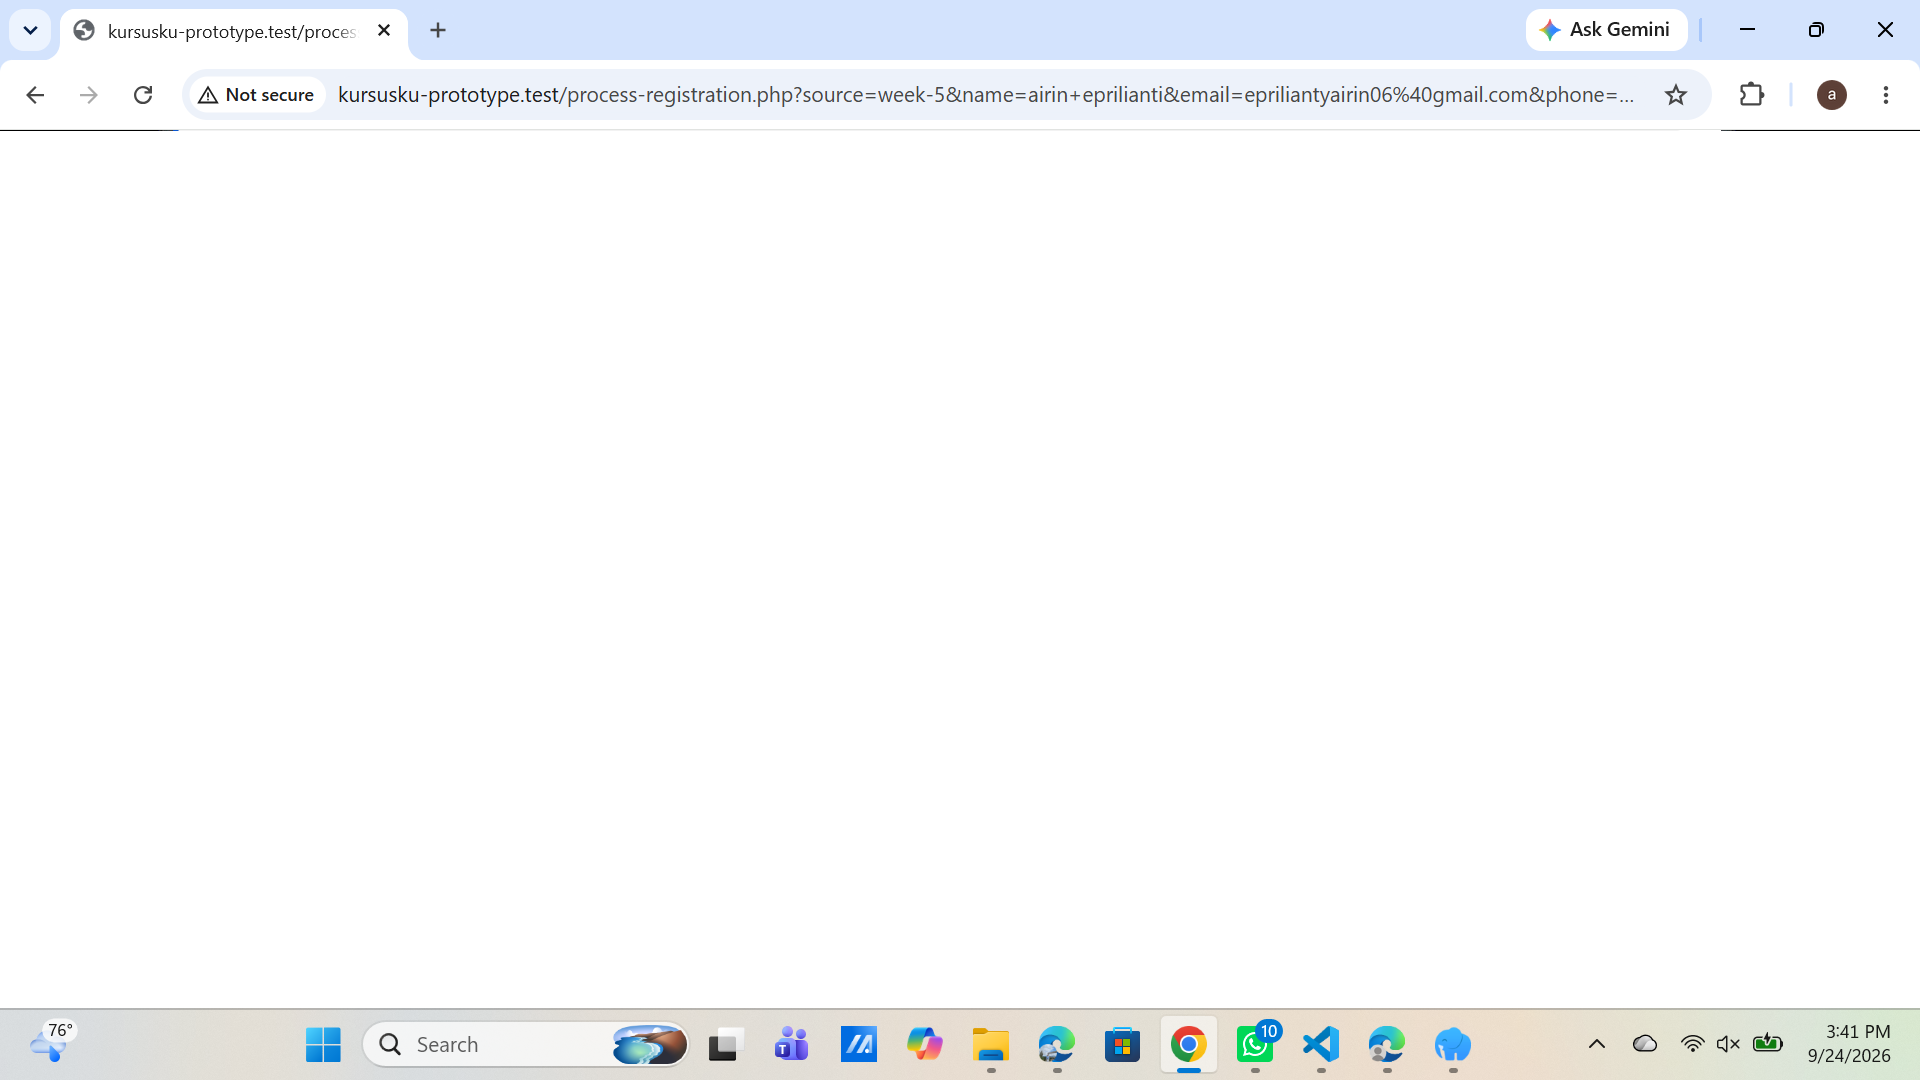
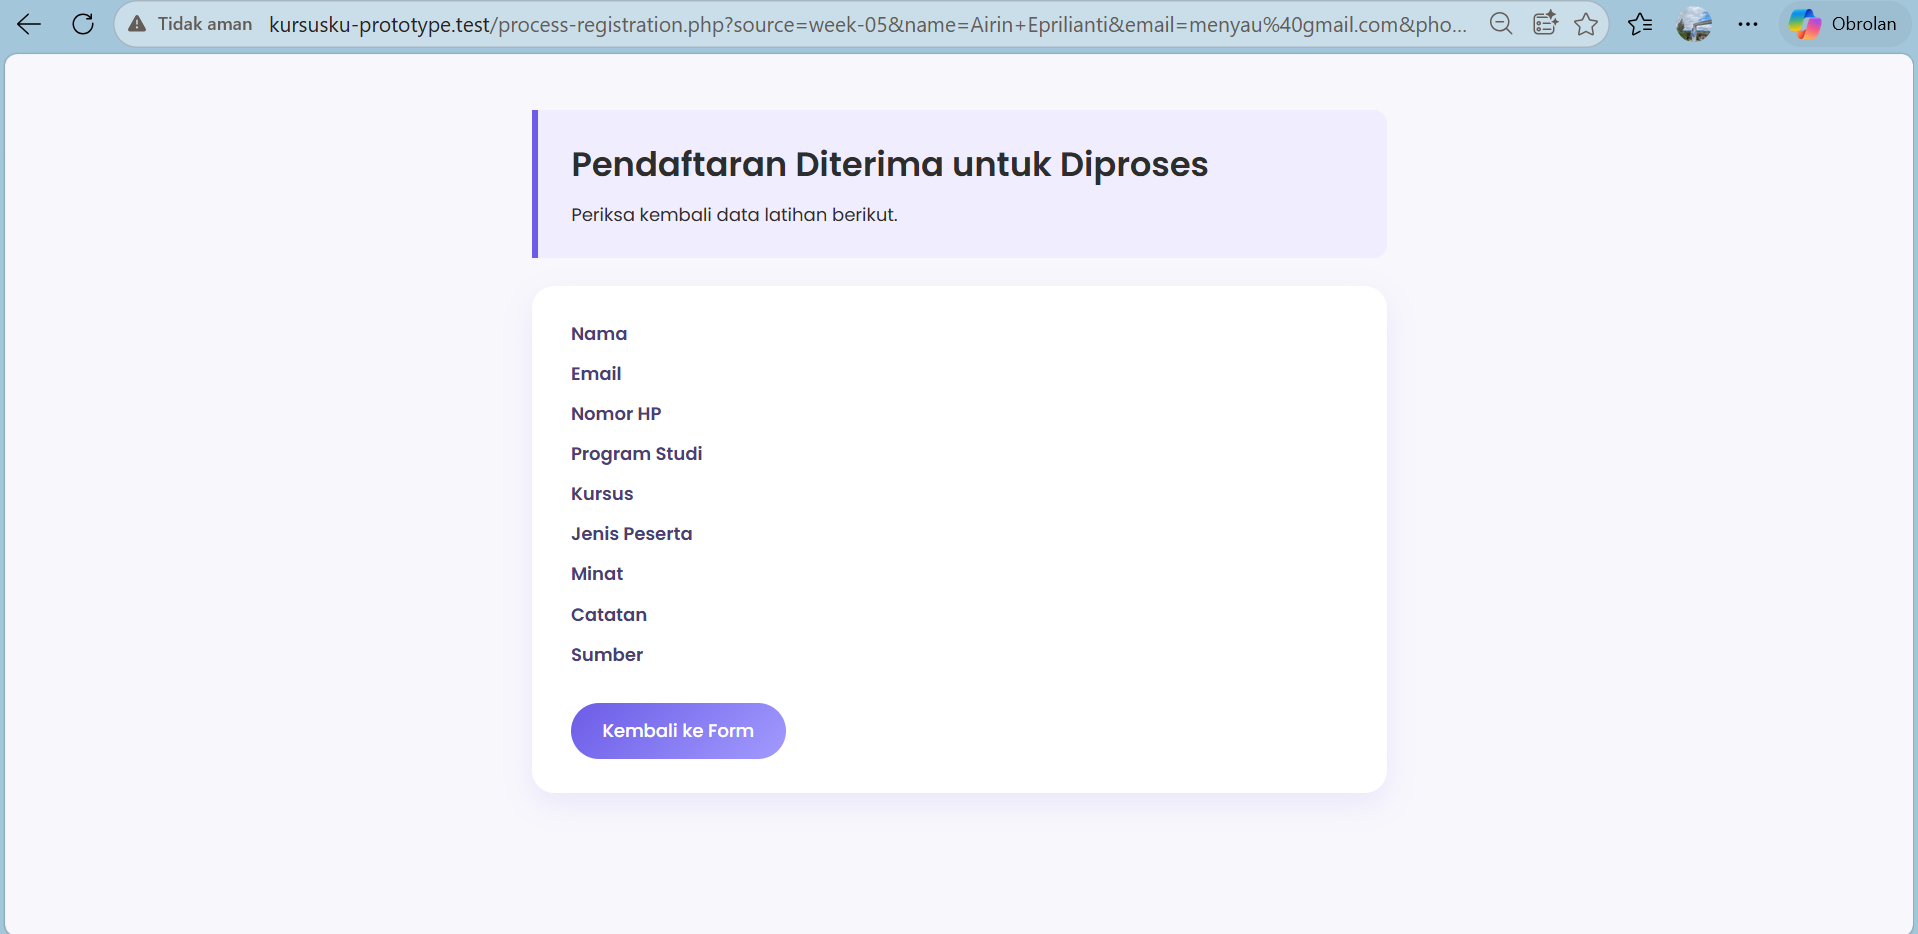
Update

diff --git a/registration.php b/registration.php
@@ -29,7 +29,7 @@
 
 <section class="form-card">
 
-<form action="process-registration.php" method="GET" class="registration-form">
+<form action="process-registration.php" method="POST" class="registration-form">
 
   <input type="hidden" name="source" value="week-05">
 
